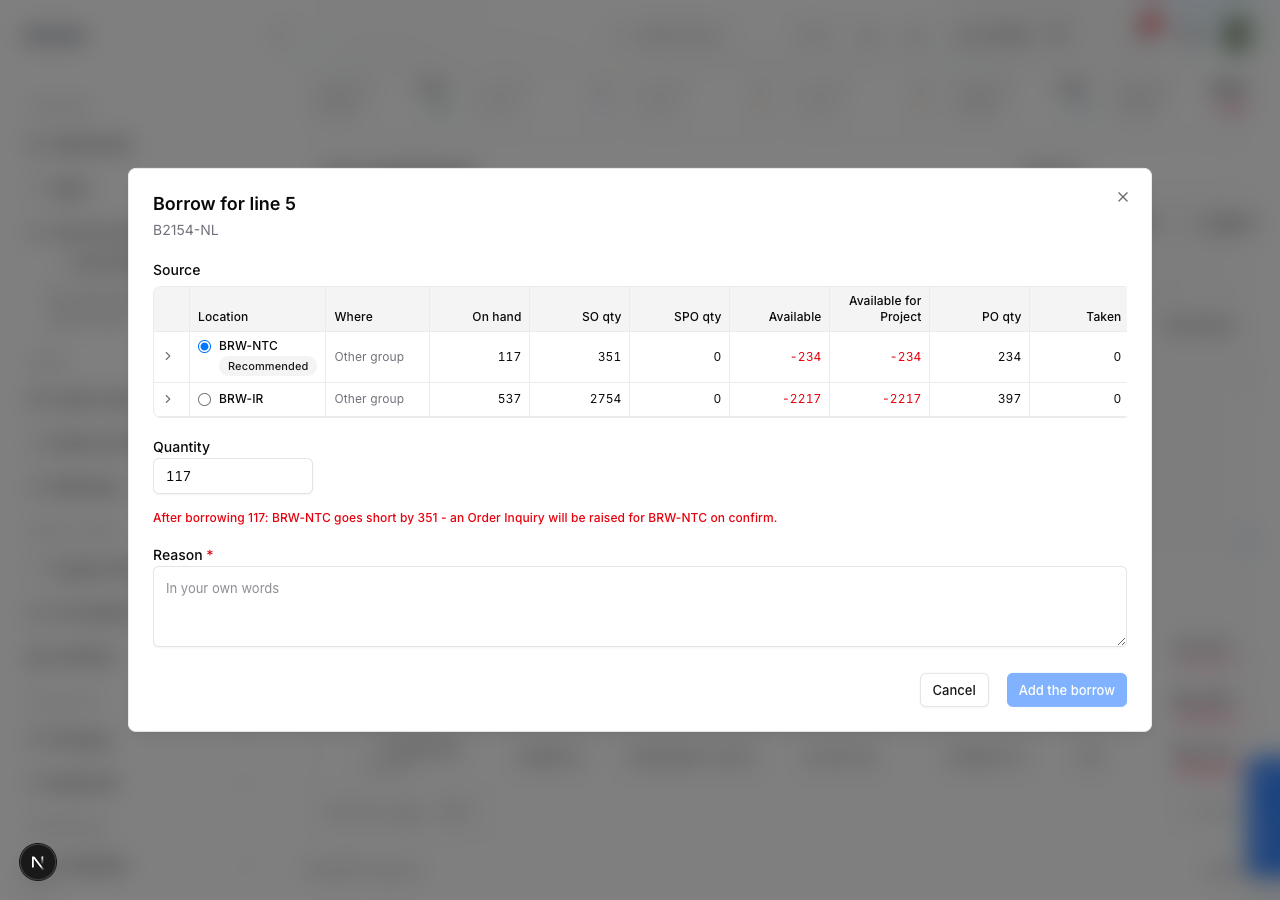
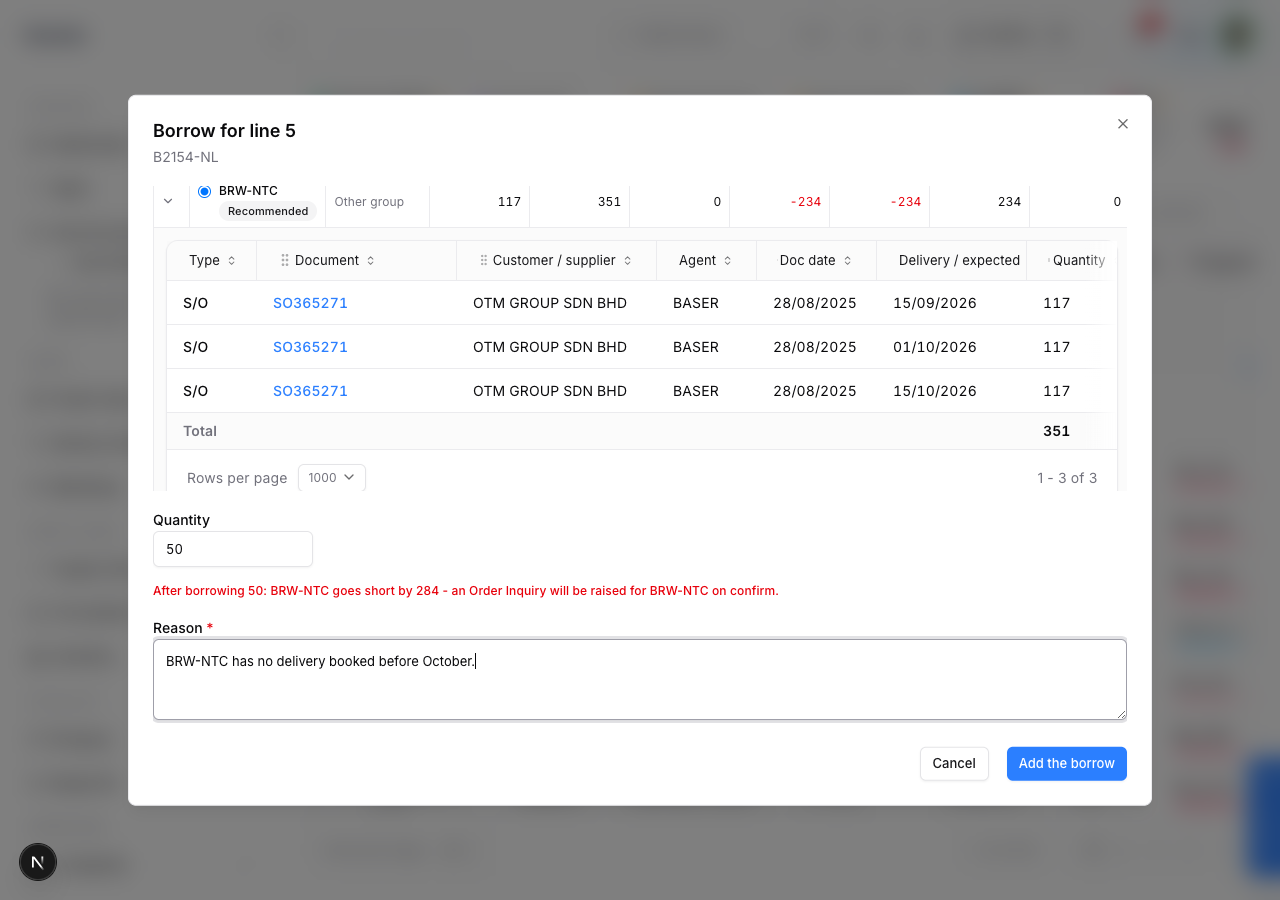
docs(scm): borrow modal evidence re-run after the fix round
Row keys, donor labels and the offered-donor Grid Location revert changed what
the Borrow modal renders since the last evidence run - re-verified AC-1.4
through AC-1.7 and AC-3.4 on SO369758 Line 5 at HEAD, replaced the two
screenshots, and appended the re-run findings (no console/page errors) rather
than overwriting the original run's own record.

Claude-Session: https://claude.ai/code/session_0163x22qU6PZqgLwTjawtQ74

diff --git a/documentation/plans/scm/evidence/local-supplier-oi-routing/evidence-run.md b/documentation/plans/scm/evidence/local-supplier-oi-routing/evidence-run.md
@@ -169,3 +169,46 @@ change).
 | AC-3.2 | PASS |
 | AC-3.3 | PASS (decision-trail read via the cell breakdown dialog's Suggestion/Decision pair, not the divergence-only `BoardTrailPopover`) |
 | AC-3.4 | PASS (`This line` ledger badge not observed on this donor's real data - noted, not a defect claim) |
+
+## Re-run after fix round (10 Sep, tester)
+
+The fix round changed the Borrow modal's row keys (a donor is now keyed by candidate, not
+by warehouse code, so two donors sharing one bin no longer collide), added a donor label
+under the location code, and reverted an out-of-plan change to the Grid Location table.
+Re-verified the Borrow modal only (AC-1.4 - AC-1.7, AC-3.4) at this HEAD
+(`150c17dfd`) - agent-browser, session `lsor-p3b`, headless, sidebar navigation from `/`
+(Project Sales -> Supply Chain -> Project Demand -> Fulfilment Planning), login via
+E2E_EMAIL/E2E_PASSWORD from `.env.local`.
+
+Same order as the original run, **SO369758** Line 5 (`B2154-NL`, "BRW 40 (BRW)" suggested,
+undecided). List view, expanded the row, clicked **Add a borrow**.
+
+- **AC-1.4**: Source table renders the Grid Location table's own columns - Location, Where,
+  On hand, SO qty, SPO qty, Available, Available for Project, PO qty, Taken - a radio in the
+  Location cell, `Recommended` on the first row (`BRW-NTC`, pre-selected, radio checked), no
+  Free/Committed/After borrow columns. Two rows this time: `BRW-NTC` (recommended,
+  `-234` available, `-234` available for project, `234` PO qty) and `BRW-IR`
+  (`-2217`/`-2217`/`397`).
+- **AC-1.5**: Expanded `BRW-NTC`'s chevron -> `StockDocumentsPanel` ledger renders (Type,
+  Document, Customer/supplier, Agent, Doc date, Delivery/expected, Quantity), 3 S/O rows
+  against `SO365271` (OTM GROUP SDN BHD, 117 each, total 351). At 1280px the modal fits the
+  whole table with no horizontal page scroll (`borrow-modal-1280.png`); at 375px the table
+  scrolls inside its own container while Quantity, the After-borrowing sentence, Reason and
+  the action buttons stay reachable by page scroll (`borrow-modal-375.png`).
+- **AC-1.6**: Typed Quantity `50` - the sentence updated live to **"After borrowing 50:
+  BRW-NTC goes short by 284 - an Order Inquiry will be raised for BRW-NTC on confirm."**
+  (read via `get text [data-testid=borrow-impact]`, since the accessibility-tree snapshot in
+  `-i` mode does not surface plain paragraph text).
+- **AC-3.4 / AC-1.7**: `Add the borrow` stayed disabled until a Reason was typed (`BRW-NTC
+  has no delivery booked before October.`), then enabled - confirming the row-key change did
+  not disturb the validation gate. Cancelled rather than confirmed, so no write was left on
+  this real order.
+- No console errors or page errors at any point (`console` / `errors` checked after every
+  interaction); only routine `i18next`/Fast Refresh log lines.
+
+This run did not exercise the "two donors sharing one bin" case directly (SO369758's own
+book did not offer two candidates at one bin today) - that shape is covered by
+`BorrowAddDialog.test.tsx`'s new vitest cases instead, which construct it explicitly and
+assert the row-key/label/expansion behaviour a live order cannot be guaranteed to reproduce.
+
+Session `lsor-p3b` closed (not `close --all`) after this run.
